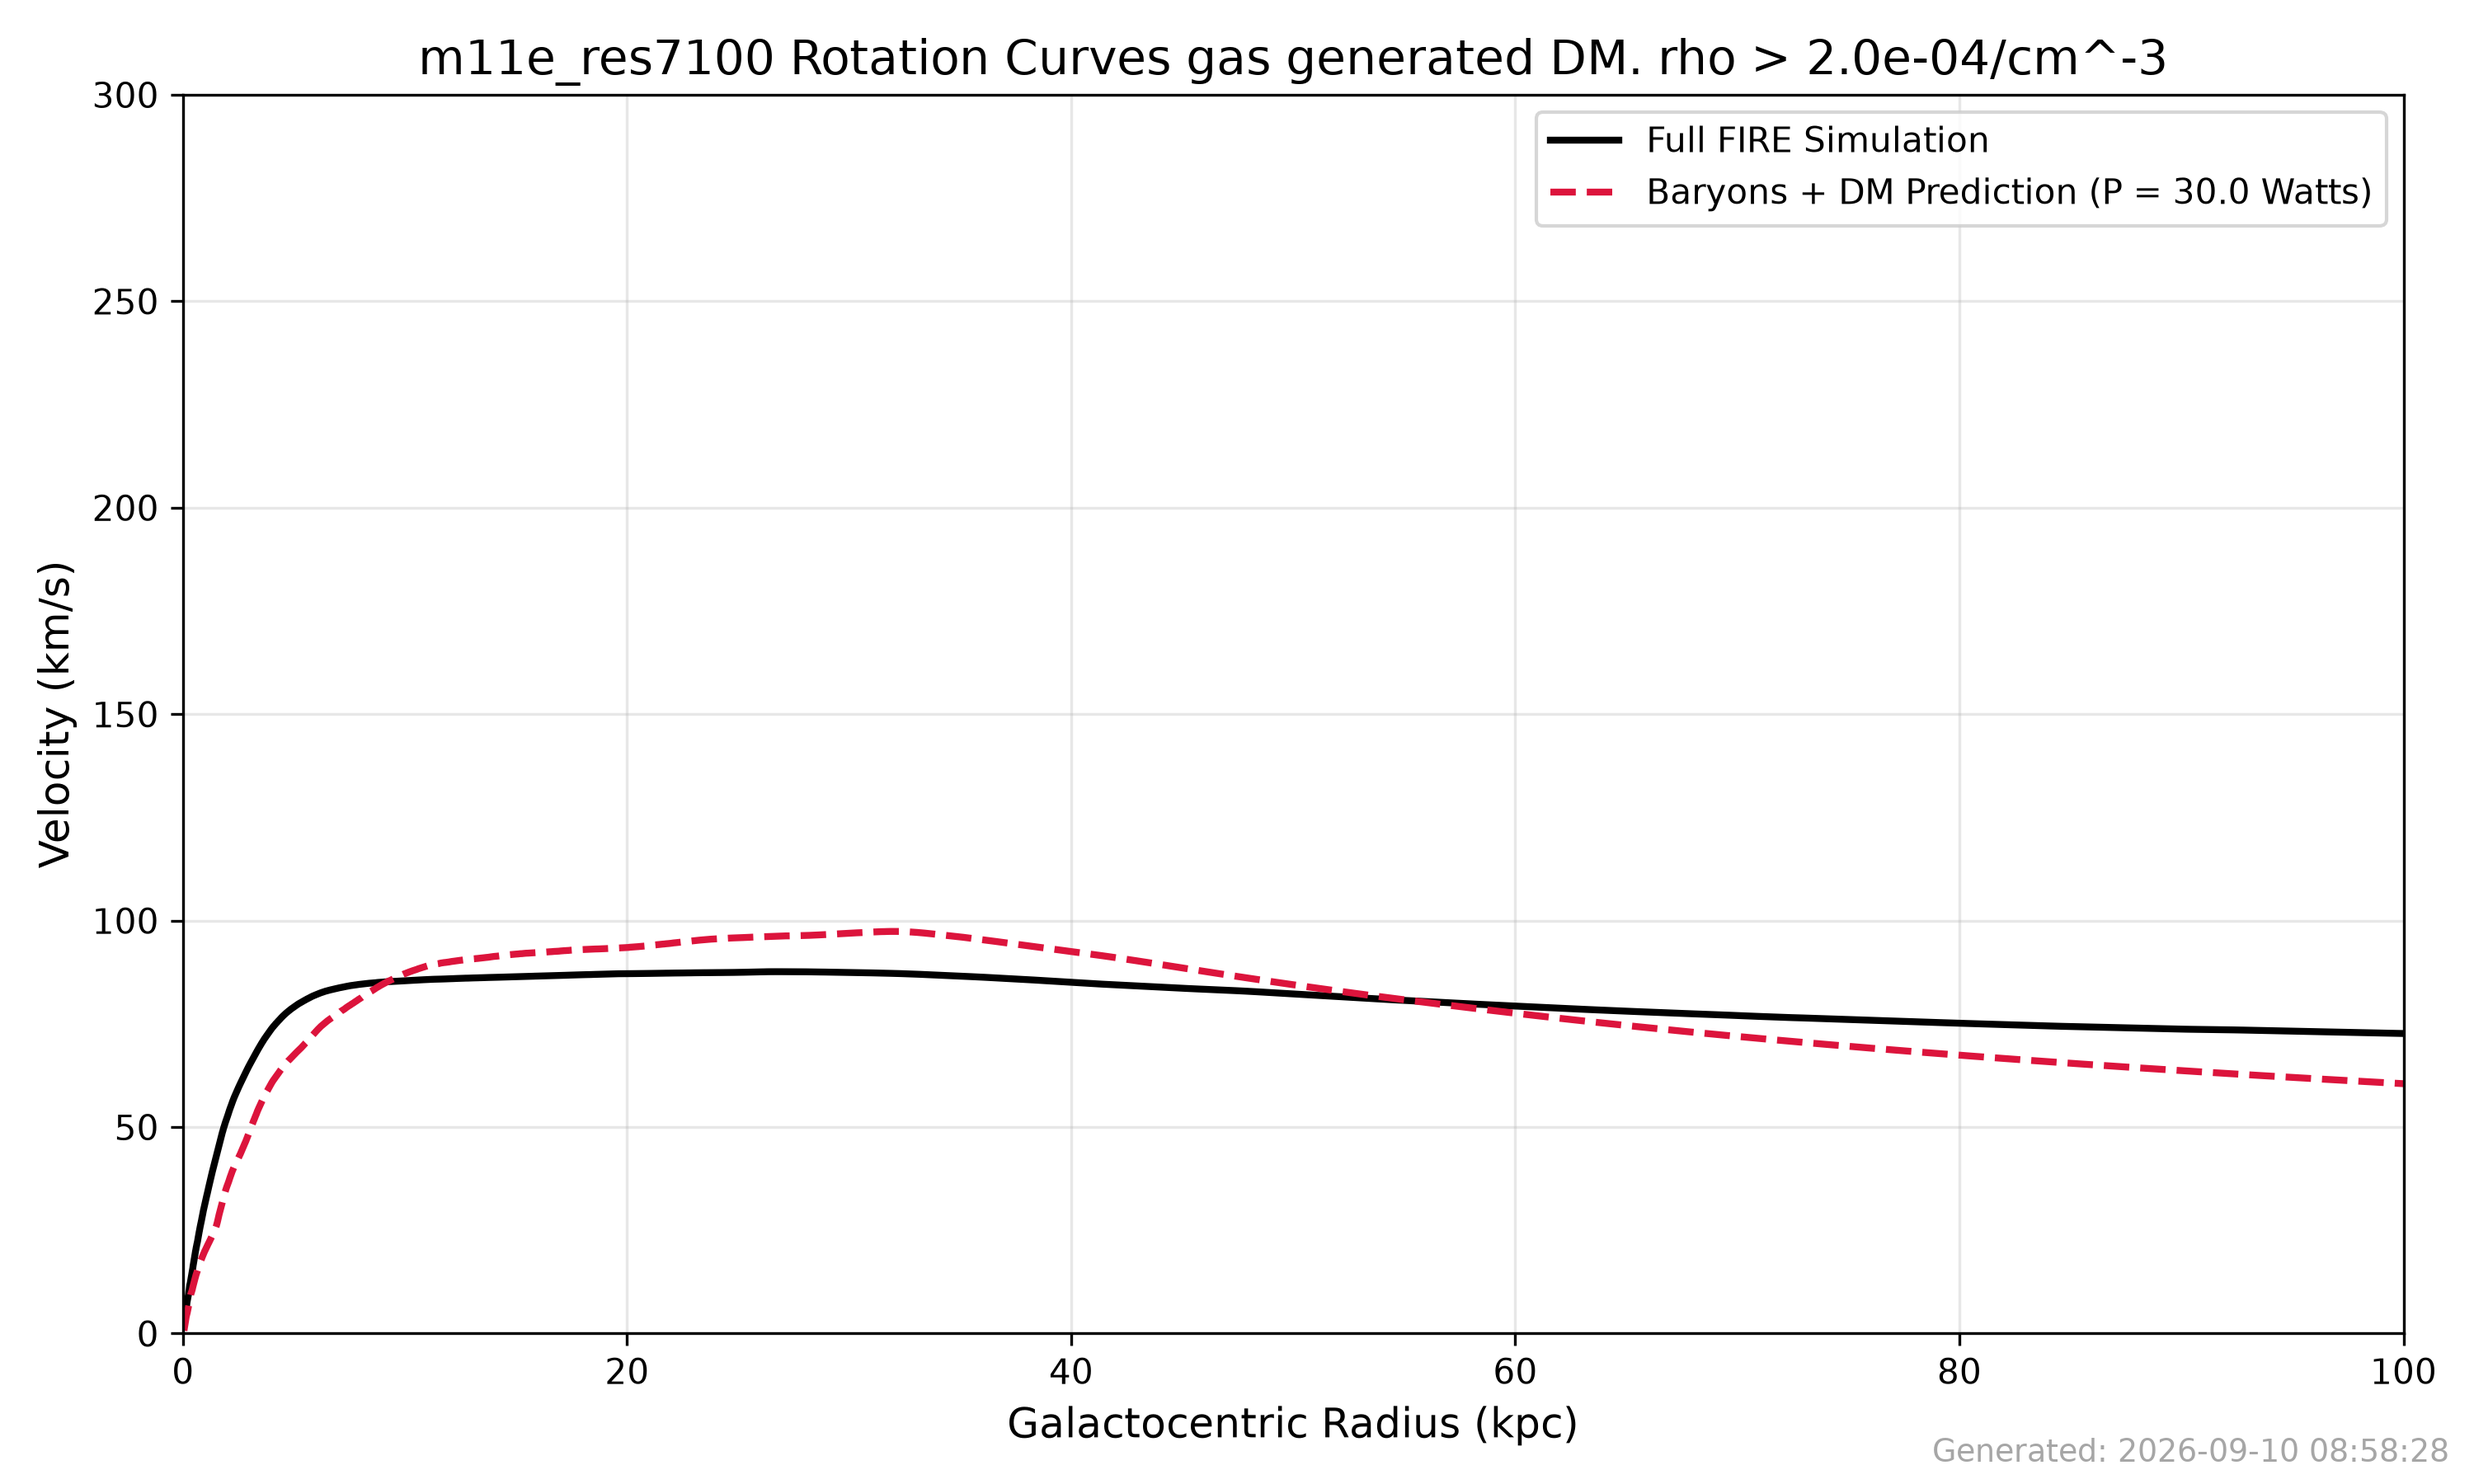
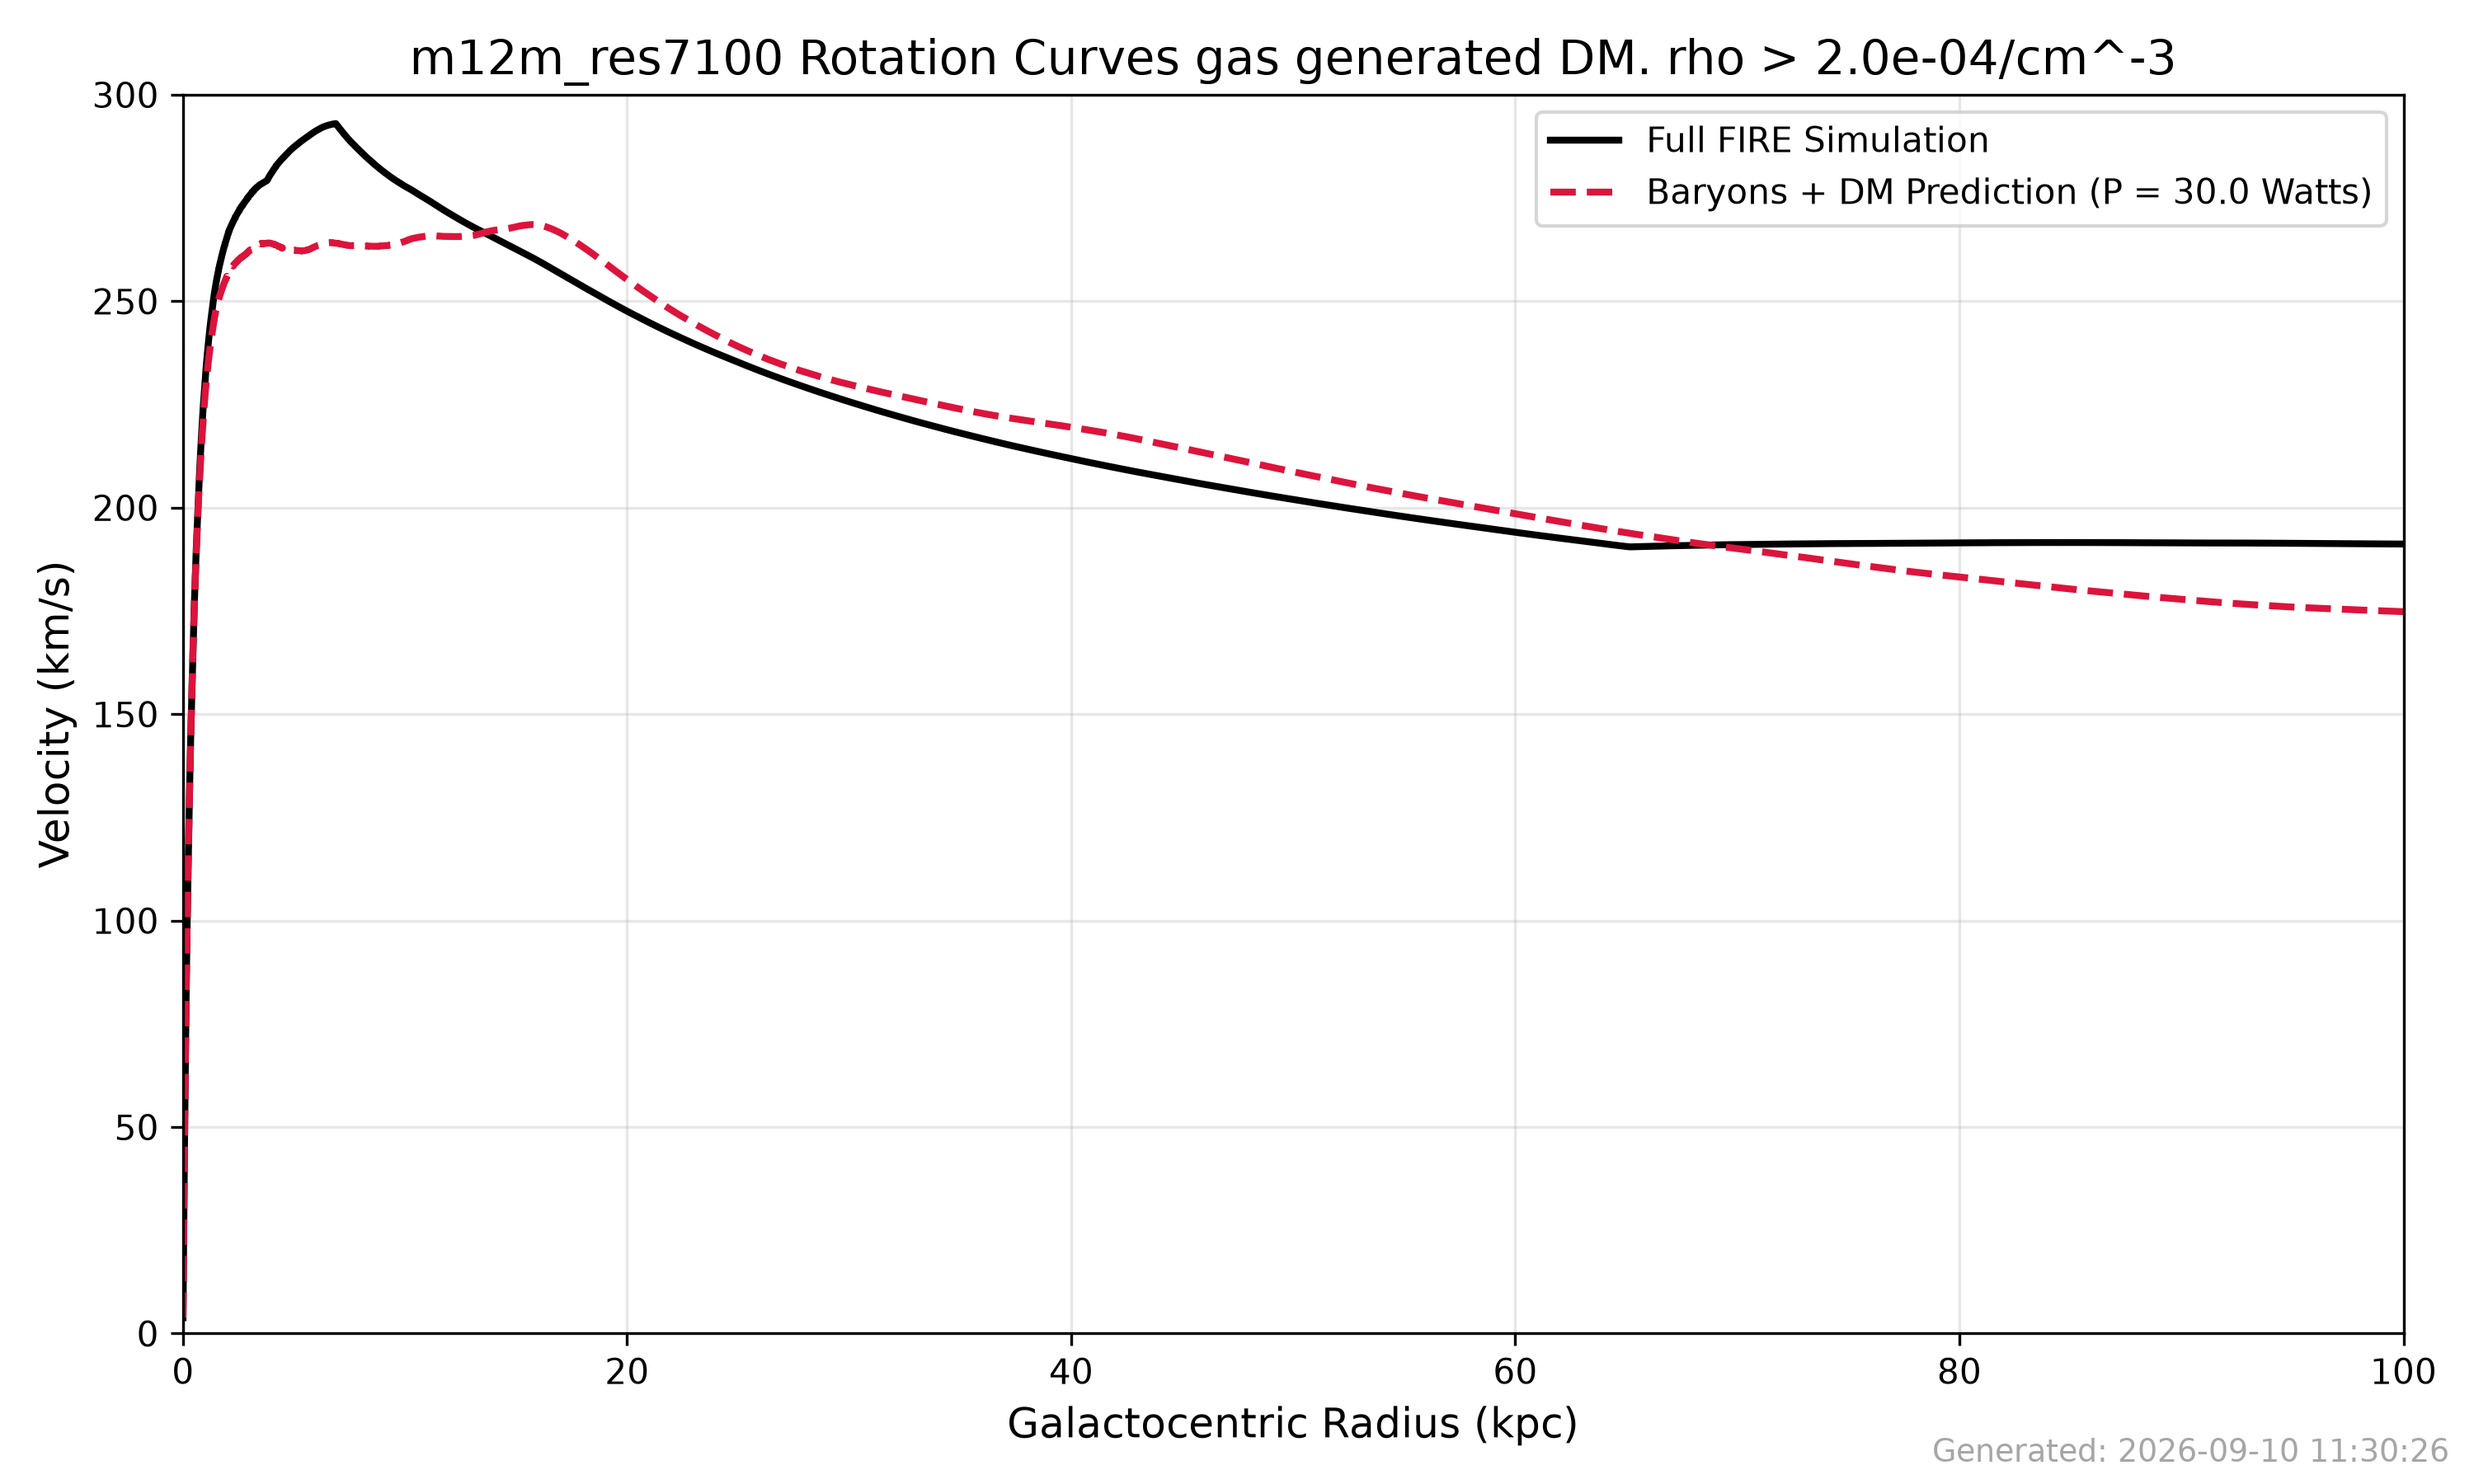
another galaxy - same settings

diff --git a/darkmatter.py b/darkmatter.py
@@ -7,7 +7,7 @@ from datetime import datetime
 # ==========================================
 # 1. CONFIGURATION & CONSTANTS
 # ==========================================
-SIM_FOLDER = "m11e_res7100" #m12i_res7100" # or m10q_res30 m11i_res7100 , m11h_res7100, m11e_res7100
+SIM_FOLDER = "m12m_res7100" #m12i_res7100" # or m10q_res30 m11i_res7100 , m11h_res7100, m11e_res7100, m12m_res7100
 
 
 SNAPSHOT_NUM = 600
